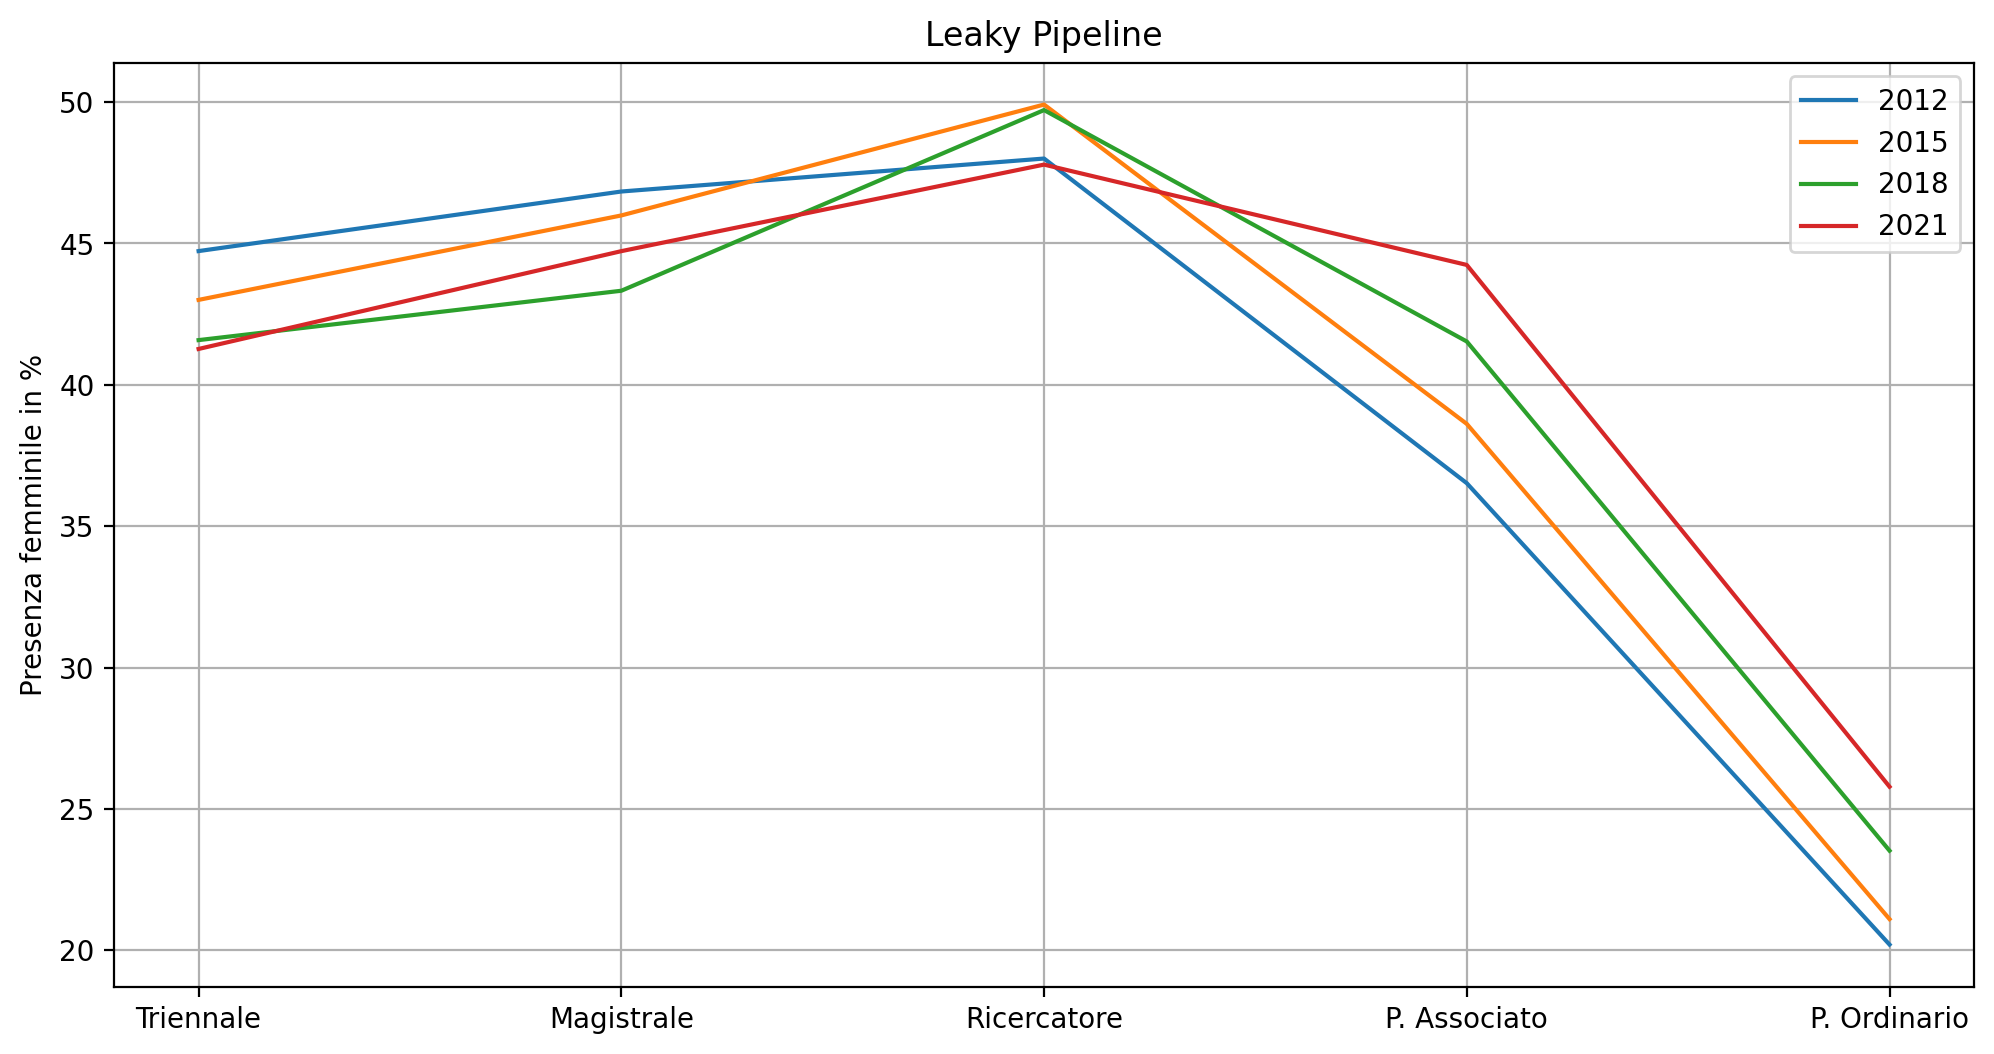
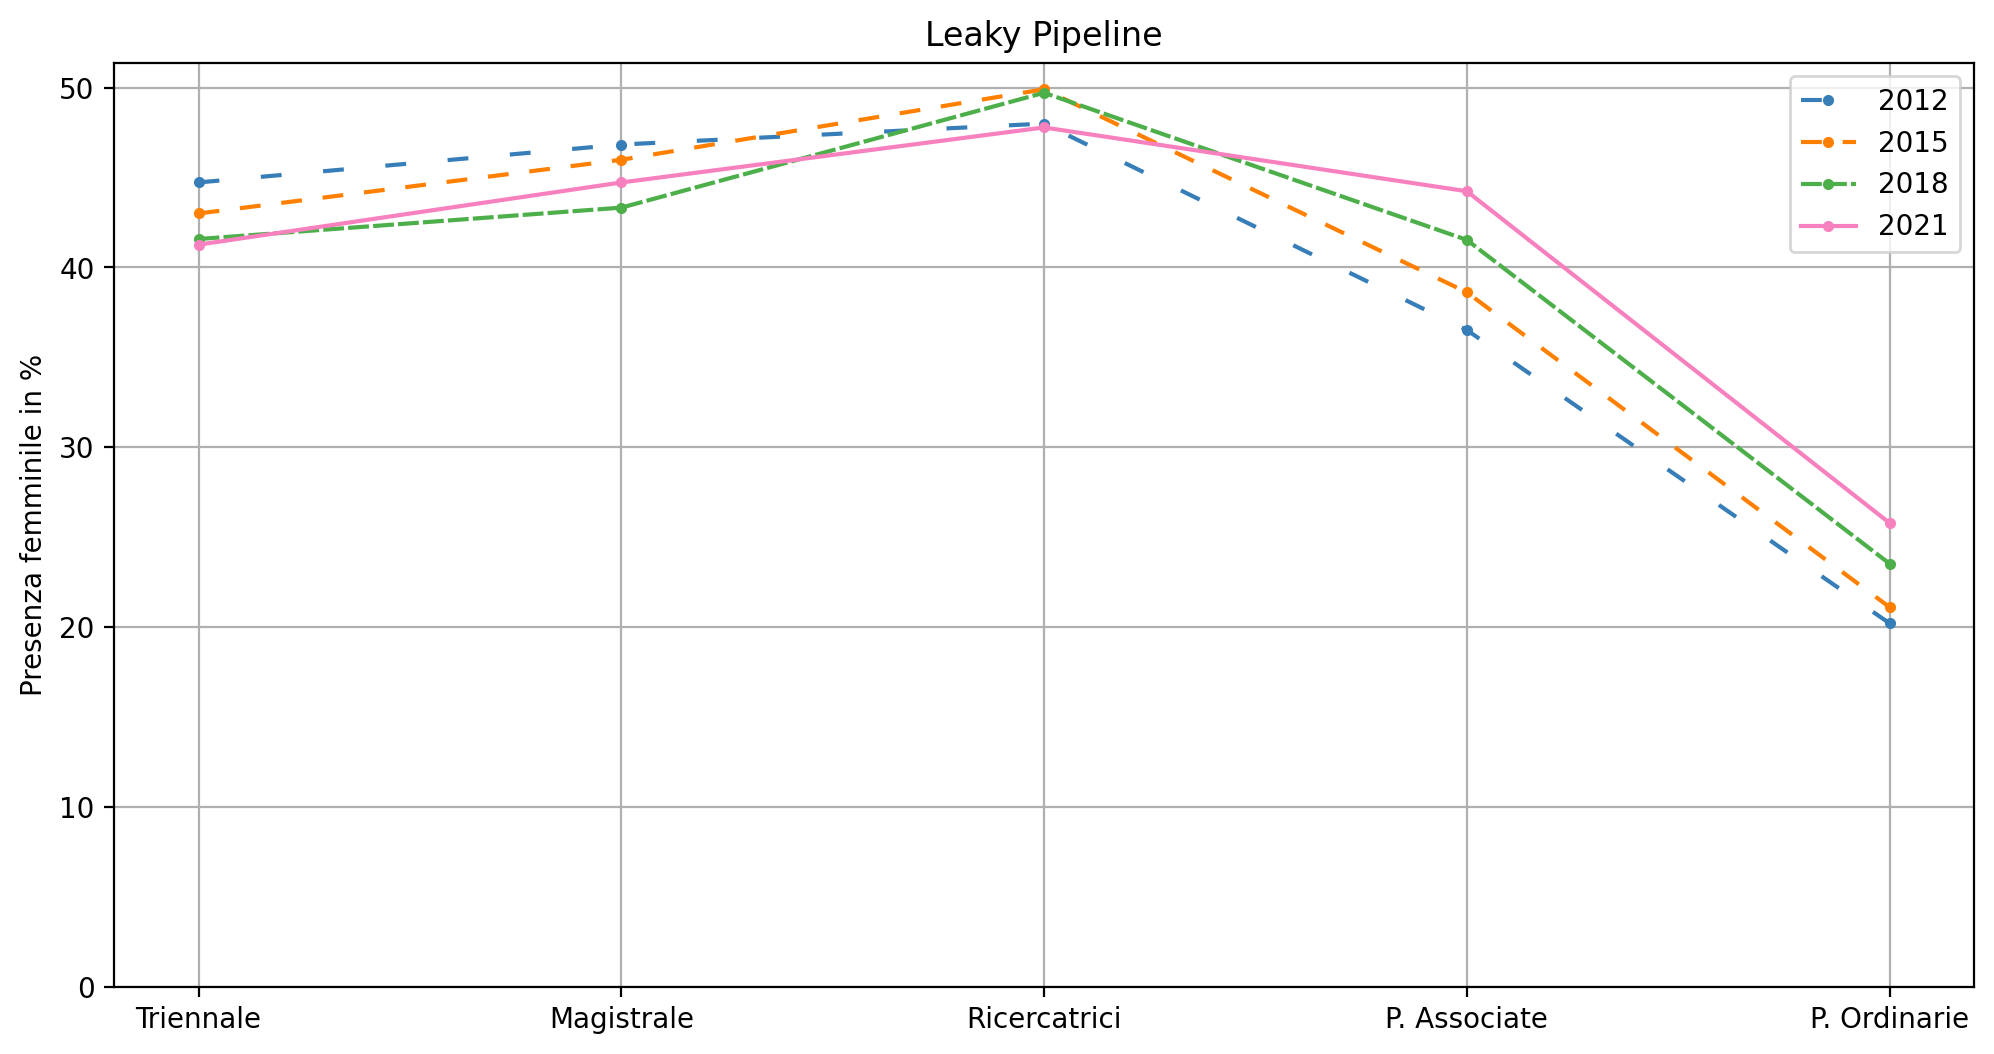
Aggiunta ultime versioni file

diff --git a/Gender_Econ_Pipeline_Git.py b/Gender_Econ_Pipeline_Git.py
@@ -5,21 +5,24 @@ import requests
 import pandas as pd 
 import numpy as np
 import os 
-from functions import *
+from functions_Git import *
+from csv import writer
+
+#<!!! The following code is intended to be interpreted carefully reading the README.md file at https://github.com/codicigluoni/Gender-Econ-Pipeline !!!>#
 
 ########################### First Sector: Enviroment Set Up ###########################
 
 # Academic Staff, retrieving data from database
-response = requests.get('http://dati.ustat.miur.it/api/3/action/datastore_search?resource_id=92f2008d-958f-4e9c-ae5c-7a3dd418cd57&filters={%22AREA_SD%22:%2213%20-%20Scienze%20economiche%20e%20statistiche%22,%20%22CODICE_ATENEO%22:%22TTTTT%22}&limit=500')
-response_json = json.loads(response.text)
-data_accademic = response_json['result']['records'] #saving data for academics
+response = requests.get('http://dati.ustat.miur.it/api/3/action/datastore_search?resource_id=92f2008d-958f-4e9c-ae5c-7a3dd418cd57&filters={%22AREA_SD%22:%2213%20-%20Scienze%20economiche%20e%20statistiche%22,%20%22CODICE_ATENEO%22:%22TTTTT%22}&limit=10000')
+staff_response_json = json.loads(response.text)
+data_academic = staff_response_json['result']['records'] #saving data for academics discarding non necessary information
 
 # Studenti , retrieving data from database
 stud_response = requests.get('http://dati.ustat.miur.it/api/3/action/datastore_search?resource_id=373294ff-b051-4ec1-996f-e52078640279&filters={%22ClasseNUMERO%22:[%22L-33%22,%22LM-56%22]}&limit=10000')
 stud_response_json = json.loads(stud_response.text)
-data_stud = stud_response_json['result']['records'] #saving data for students
+data_stud = stud_response_json['result']['records'] #saving data for students discarding non necessary information
 
-Years = yr_interval(data_stud, data_accademic) #function to extract year for which to analyze data
+Years = yr_interval(data_stud, data_academic) #function to extract year for which to analyze data
 
 ########################### Second Sector: Previous analysis check ###########################
 
@@ -62,7 +65,7 @@ if isExist and flag == 0 or not isExist: #if file exists and evaluated years are
 		tot_ord = 0
 		tot_ord_f = 0
 
-		for staff in data_accademic: #for each element in the database
+		for staff in data_academic: #for each element in the database
 			if staff['ANNO'] == yr:
 				if staff['COD_QUALIFICA'] == '1PO':
 					tot_ord = tot_ord + staff['N_AcStaff'] #calculating total number of Ordinary Professors in our field of interest
@@ -118,6 +121,24 @@ if isExist and flag == 0 or not isExist: #if file exists and evaluated years are
 		pg_stud_matrix[i][1] = (tot_trien_f/tot_trien)*100
 		pg_stud_matrix[i][2] = (tot_mag_f/tot_mag)*100
 		i = i + 1
+
+	#Saving data as csv
+
+	fmt='%d','%1.3f','%1.3f','%1.3f','%1.3f','%1.3f' #format required for years and percentages in data_merge
+	header_stud = ['Anno','Triennale	', 'Magistrale	', 'Ricercatrice', 'P. Associate', 'P. Ordinarie'] #create header
+	pg_staff_matrix_merge = np.delete(pg_staff_matrix, 0, 1) #delete the year column since in the merge only one is required and it is contained in pg_stud_matrix
+	data_merge= np.hstack((pg_stud_matrix,pg_staff_matrix_merge)) #merge the percentages matrix
+	np.savetxt('data.csv', data_merge, delimiter=',', fmt=fmt) #save percentages as csv
+	np.savetxt('fulldata.csv', [header_stud] ,delimiter=',',fmt="%s") #save header as csv
+
+	with open('data.csv', 'r') as f1: 
+		original = f1.read()
+
+	with open('fulldata.csv', 'a') as f2:
+		f2.write('\n')
+		f2.write(original) #merge
+
+	os.remove('data.csv') #delete the auxiliary file data.csv, now data with header are fully stored in fulldata.csv
 
 ########################### Fourth Sector: Grafic Plot ###########################
 

diff --git a/functions_Git.py b/functions_Git.py
@@ -25,10 +25,10 @@ def yr_interval(data_stud,data_accademic):
 		Years.append(min(list_intersection))
 		#the year that is the nearest from the value that lies exactly in the middle between the most recent year and the less recent year
 		Years.append(min(list_intersection, key=lambda x:abs(x-(int(min(list_intersection) + (max(list_intersection)-min(list_intersection))/2)))))
-	if i == 2: #only two years available 
+	if i == 2 or (i>=2 and req_yr==2): #only two years available 
 		Years.append(max(list_intersection))
 		Years.append(min(list_intersection))
-	if i == 1: #only one year available 
+	if i == 1 or (i>=1 and req_yr==1): #only one year available 
 		Years.append(max(list_intersection))
 	if i == 0: #no years available
 		print('Data not available')
@@ -41,6 +41,9 @@ def yr_interval(data_stud,data_accademic):
 def pl0t_th1s_gr4ph(pg_stud_matrix, pg_staff_matrix, n_yr, Years):
 
 	x = [1, 2, 3, 4, 5] #number of element in the x axis
+	CB_color_cycle = ['#377eb8', '#ff7f00', '#4daf4a','#f781bf', '#a65628', '#984ea3','#999999', '#e41a1c', '#dede00'] #list of colors to make graph color blind friendly
+
+	linestyle_str=[(0, (5, 10)),(0, (5, 5)),(0, (5, 1))] #linestyle for all years except the most recent one, which is displayed solid
 
 	#following, the process to construct the matrix containing the percentage values previously calculated.
 	#every row of the y matrix corresponds to an year for which the percentages have been calculated and each of those rows is plotted.
@@ -48,19 +51,24 @@ def pl0t_th1s_gr4ph(pg_stud_matrix, pg_staff_matrix, n_yr, Years):
 	for j in range(n_yr):
 		if j == 0: #if this is the first year to be plotted, build the y axis matrix, which contains all the percentages calculated before
 			y = [pg_stud_matrix[j][1], pg_stud_matrix[j][2], pg_staff_matrix[j][1], pg_staff_matrix[j][2], pg_staff_matrix[j][3]]
-			plt.plot(x,y)
-		else: #stack every "row year" in the matrix
+			plt.plot(x,y, color=CB_color_cycle[j], linestyle=linestyle_str[j], marker=".")
+		elif j != n_yr-1: #stack every "row year" in the matrix
 			row = [pg_stud_matrix[j][1], pg_stud_matrix[j][2], pg_staff_matrix[j][1], pg_staff_matrix[j][2], pg_staff_matrix[j][3]]
 			y = np.vstack([y,row])
-			plt.plot(x,y[j])
+			plt.plot(x,y[j], color=CB_color_cycle[j], linestyle=linestyle_str[j], marker=".")
+		elif j == n_yr-1: #custom formatting for the most recent year
+			row = [pg_stud_matrix[j][1], pg_stud_matrix[j][2], pg_staff_matrix[j][1], pg_staff_matrix[j][2], pg_staff_matrix[j][3]]
+			y = np.vstack([y,row])
+			plt.plot(x,y[j], color=CB_color_cycle[j], marker=".")
 
-	labels = ['Triennale', 'Magistrale', 'Ricercatore', 'P. Associato', 'P. Ordinario'] #define x values name
+	labels = ['Triennale', 'Magistrale', 'Ricercatrici', 'P. Associate', 'P. Ordinarie'] #define x values name
 
 	plt.title("Leaky Pipeline")
 	plt.ylabel("Presenza femminile in %")
 	plt.legend([Years[k] for k in range(n_yr)]) #display the legend referring to the years of interest
-	plt.grid()
+	plt.grid() #add a grid on the graph background
 	plt.xticks (x, labels) #rename x values
+	plt.ylim(bottom=0) #make the graph start from 0 on y axis
 
 	plt.gcf().set_size_inches(12, 6) #set graph size 
 	plt.savefig('graph.png', bbox_inches='tight', dpi=200) #save graph
